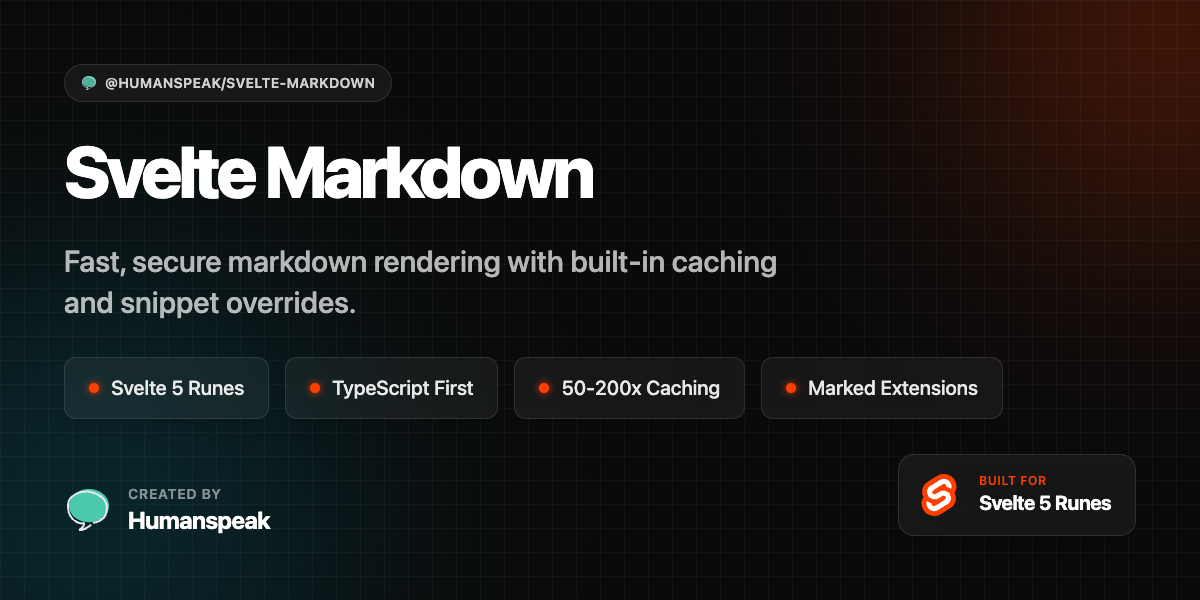
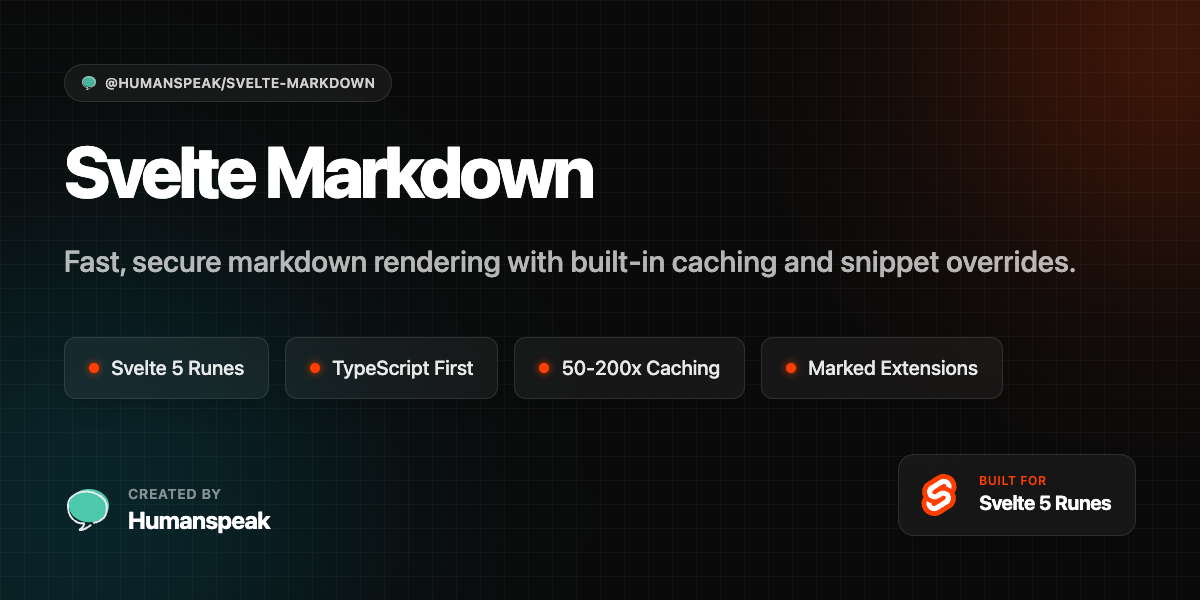
style(docs): widen social card description text
Increase max-width from max-w-3xl to max-w-5xl for better text
layout on OG and Twitter card images. Regenerate static card PNGs.

diff --git a/docs/src/lib/components/OG.svelte b/docs/src/lib/components/OG.svelte
@@ -57,7 +57,7 @@
             <p
                 class:text-4xl={type === 'og'}
                 class:text-3xl={type === 'twitter'}
-                class="max-w-3xl leading-snug font-medium text-white/70"
+                class="max-w-5xl leading-snug font-medium text-white/70"
             >
                 Fast, secure markdown rendering with built-in caching and snippet overrides.
             </p>
